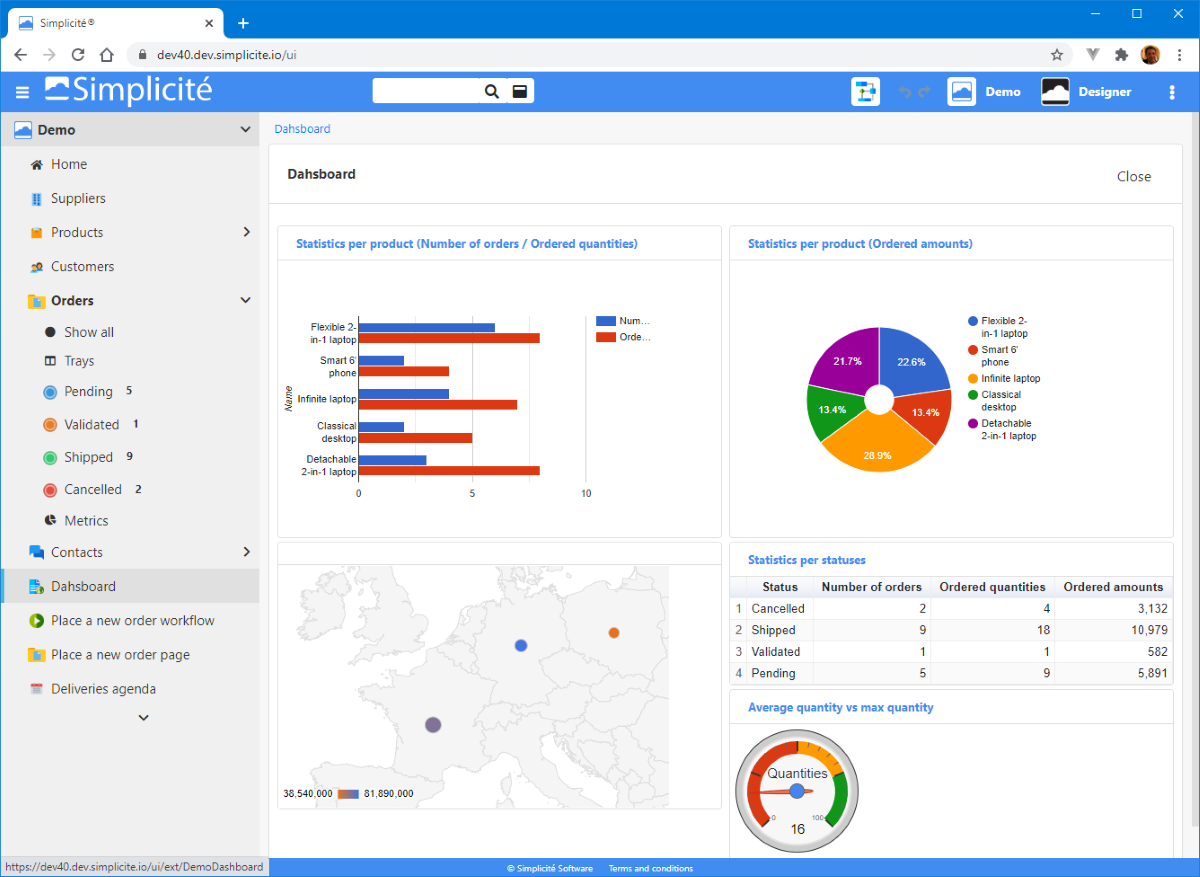
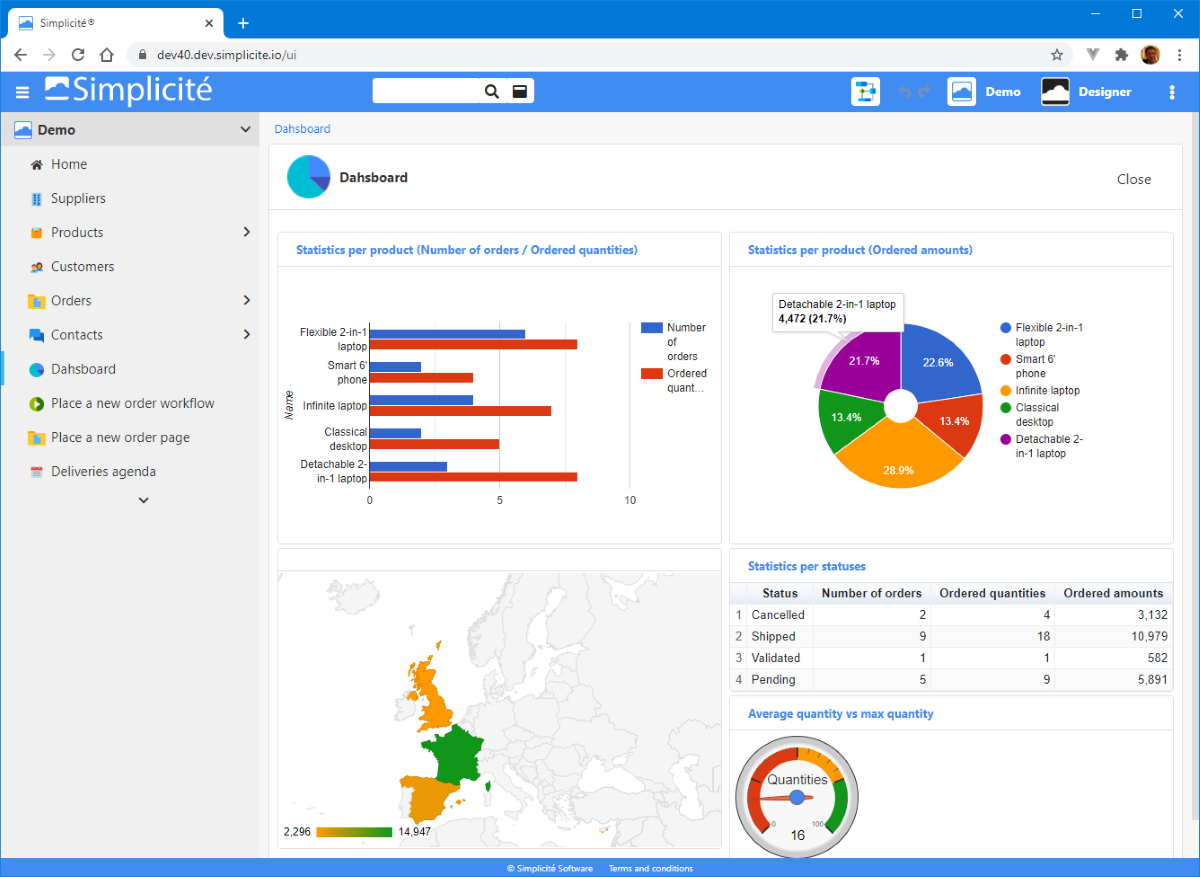
Map format

diff --git a/resources/ObjectExternal/DemoDashboard/SCRIPT.min.js b/resources/ObjectExternal/DemoDashboard/SCRIPT.min.js
@@ -2,7 +2,7 @@ var DemoDashboard=typeof DemoDashboard!=="undefined"?DemoDashboard:(function($){
 function charts1and2(d1,d2){$ui.getUIObject("DemoStats2","dashboard_DemoStats2",function(sts){var product=sts.getField("demoPrdName");var count=sts.getField("demoStsCount");var quantity=sts.getField("demoStsQuantity");var amount=sts.getField("demoStsAmount");$("#demo-dashboard-title-1").text(sts.getDisplay()+" ("+count.getDisplay()+" / "+quantity.getDisplay()+")");$("#demo-dashboard-title-2").text(sts.getDisplay()+" ("+amount.getDisplay()+")");var data1=new google.visualization.DataTable();data1.addColumn("string",product.getDisplay());data1.addColumn("number",count.getDisplay());data1.addColumn("number",quantity.getDisplay());var data2=new google.visualization.DataTable();data2.addColumn("string",product.getDisplay());data2.addColumn("number",amount.getDisplay());sts.search(function(rows){for(var i=0;i<rows.length;i++){data1.addRow([rows[i].demoPrdName,rows[i].demoStsCount,rows[i].demoStsQuantity]);data2.addRow([rows[i].demoPrdName,rows[i].demoStsAmount]);}
 new google.visualization.BarChart(document.getElementById("demo-dashboard-1")).draw(data1,{chartArea:{width:"60%"},vAxis:{title:product.getDisplay()},bars:"horizontal"});new google.visualization.PieChart(document.getElementById("demo-dashboard-2")).draw(data2,{pieHole:0.2});});});}
 function chart3(d){$ui.getUIObject("DemoOrder","dashboard_DemoOrder",function(ord){var tab=ord.getPivotTable("DemoOrder-TC4");$("#demo-dashboard-title-3").text(tab.display);ord.getPivotTableData(function(cubes){var data3=new google.visualization.DataTable();data3.addColumn("string",ord.getField("demoOrdCliId__demoCliCountry").getDisplay());data3.addColumn("number",ord.getField("demoOrdTotal").getDisplay());data3.addColumn("number","%");var i,sum=0;for(i=0;i<cubes.length;i++)sum+=cubes[i].demoOrdTotal;for(i=0;i<cubes.length;i++){data3.addRow([cubes[i].demoOrdCliId__demoCliCountry,cubes[i].demoOrdTotal,cubes[i].demoOrdTotal/sum*100]);}
-new google.visualization.GeoChart(document.getElementById("demo-dashboard-3")).draw(data3,{sizeAxis:{minValue:0,maxValue:100},region:"150",displayMode:"markers",colorAxis:{colors:["#ff0000","#00ff00"]}});},tab.name);});}
+new google.visualization.GeoChart(document.getElementById("demo-dashboard-3")).draw(data3,{sizeAxis:{minValue:0,maxValue:100},region:"150",colorAxis:{colors:["#ff9900","#109618"]}});},tab.name);});}
 function chart4(d){$ui.getUIObject("DemoStats1","dashboard_DemoStats1",function(sts){$("#demo-dashboard-title-4").text(sts.getDisplay());var data4=new google.visualization.DataTable();var status=sts.getField("demoOrdStatus");data4.addColumn("string",status.getDisplay());data4.addColumn("number",sts.getField("demoStsCount").getDisplay());data4.addColumn("number",sts.getField("demoStsQuantity").getDisplay());data4.addColumn("number",sts.getField("demoStsAmount").getDisplay());sts.search(function(rows){for(var i=0;i<rows.length;i++){var row=Object.values(rows[i]);row.shift();row[0]=status.getDisplayValue(row[0]);data4.addRow(row);}
 new google.visualization.Table(document.getElementById("demo-dashboard-4")).draw(data4,{showRowNumber:true,width:"100%",height:"100%"});});});}
 function chart5(d){$("#demo-dashboard-title-5").text(d.title);new google.visualization.Gauge(document.getElementById("demo-dashboard-5")).draw(google.visualization.arrayToDataTable([["Label","Value"],[d.data[0].label,d.data[0].value],]),{width:"100%",height:150,redFrom:0,redTo:50,yellowFrom:50,yellowTo:75,greenFrom:75,greenTo:100,minorTicks:5});}

diff --git a/resources/ObjectExternal/DemoDashboard/SCRIPT.js b/resources/ObjectExternal/DemoDashboard/SCRIPT.js
@@ -77,8 +77,7 @@ var DemoDashboard = typeof DemoDashboard !== "undefined" ? DemoDashboard : (func
 				new google.visualization.GeoChart(document.getElementById("demo-dashboard-3")).draw(data3, {
 					sizeAxis: { minValue: 0, maxValue: 100 },
 					region: "150", // Europe
-					displayMode: "markers",
-					colorAxis: { colors: ["#ff0000", "#00ff00"] }
+					colorAxis: { colors: ["#ff9900", "#109618"] }
 				});
 			}, tab.name);
 		});
